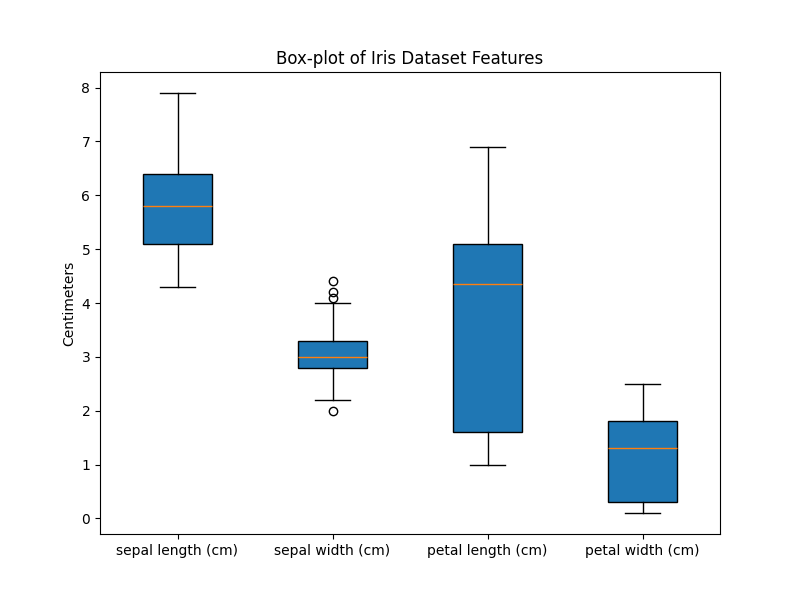
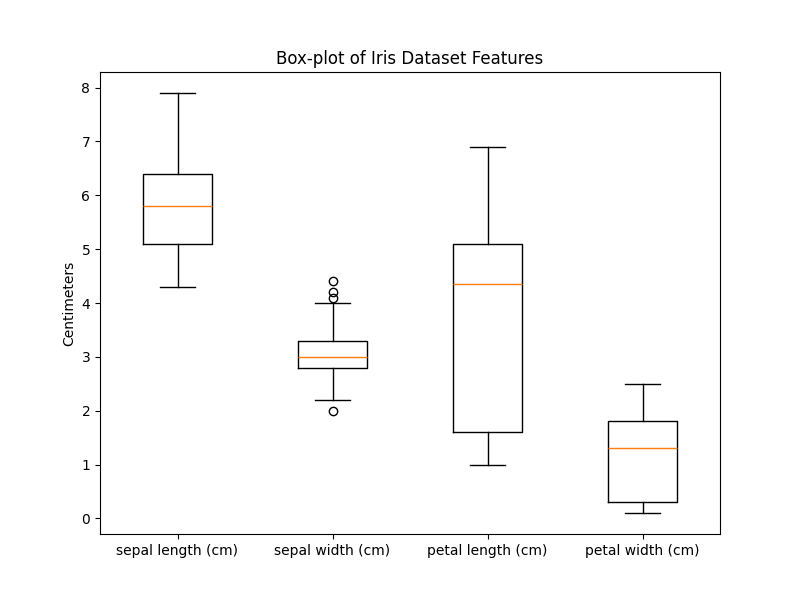
Simplify 5a.py to pass X directly without list comprehension

diff --git a/5a.py b/5a.py
@@ -4,13 +4,12 @@ from sklearn.datasets import load_iris
 # Step 1: Load Data
 iris = load_iris()
 X = iris.data
-data = [X[:, i] for i in range(X.shape[1])]
 
 # Step 2: Setup Canvas
 plt.figure(figsize=(8, 6))
 
 # Step 3: THE PLOT SPECIFIC CODE GOES HERE
-plt.boxplot(data, vert=True, patch_artist=True, tick_labels=iris.feature_names)
+plt.boxplot(X, tick_labels=iris.feature_names)
 
 # Step 4: Add Labels & Show
 plt.title('Box-plot of Iris Dataset Features')

diff --git a/explanation.md b/explanation.md
@@ -12,9 +12,9 @@
 
 ### Output
 ```text
-Starting state: 1.1744
-Local maximum found at x = 1.9744
-Objective value: 3.9993
+Starting state: 0.3185
+Local maximum found at x = 2.0185
+Objective value: 3.9997
 ```
 
 ## `2a.py`
